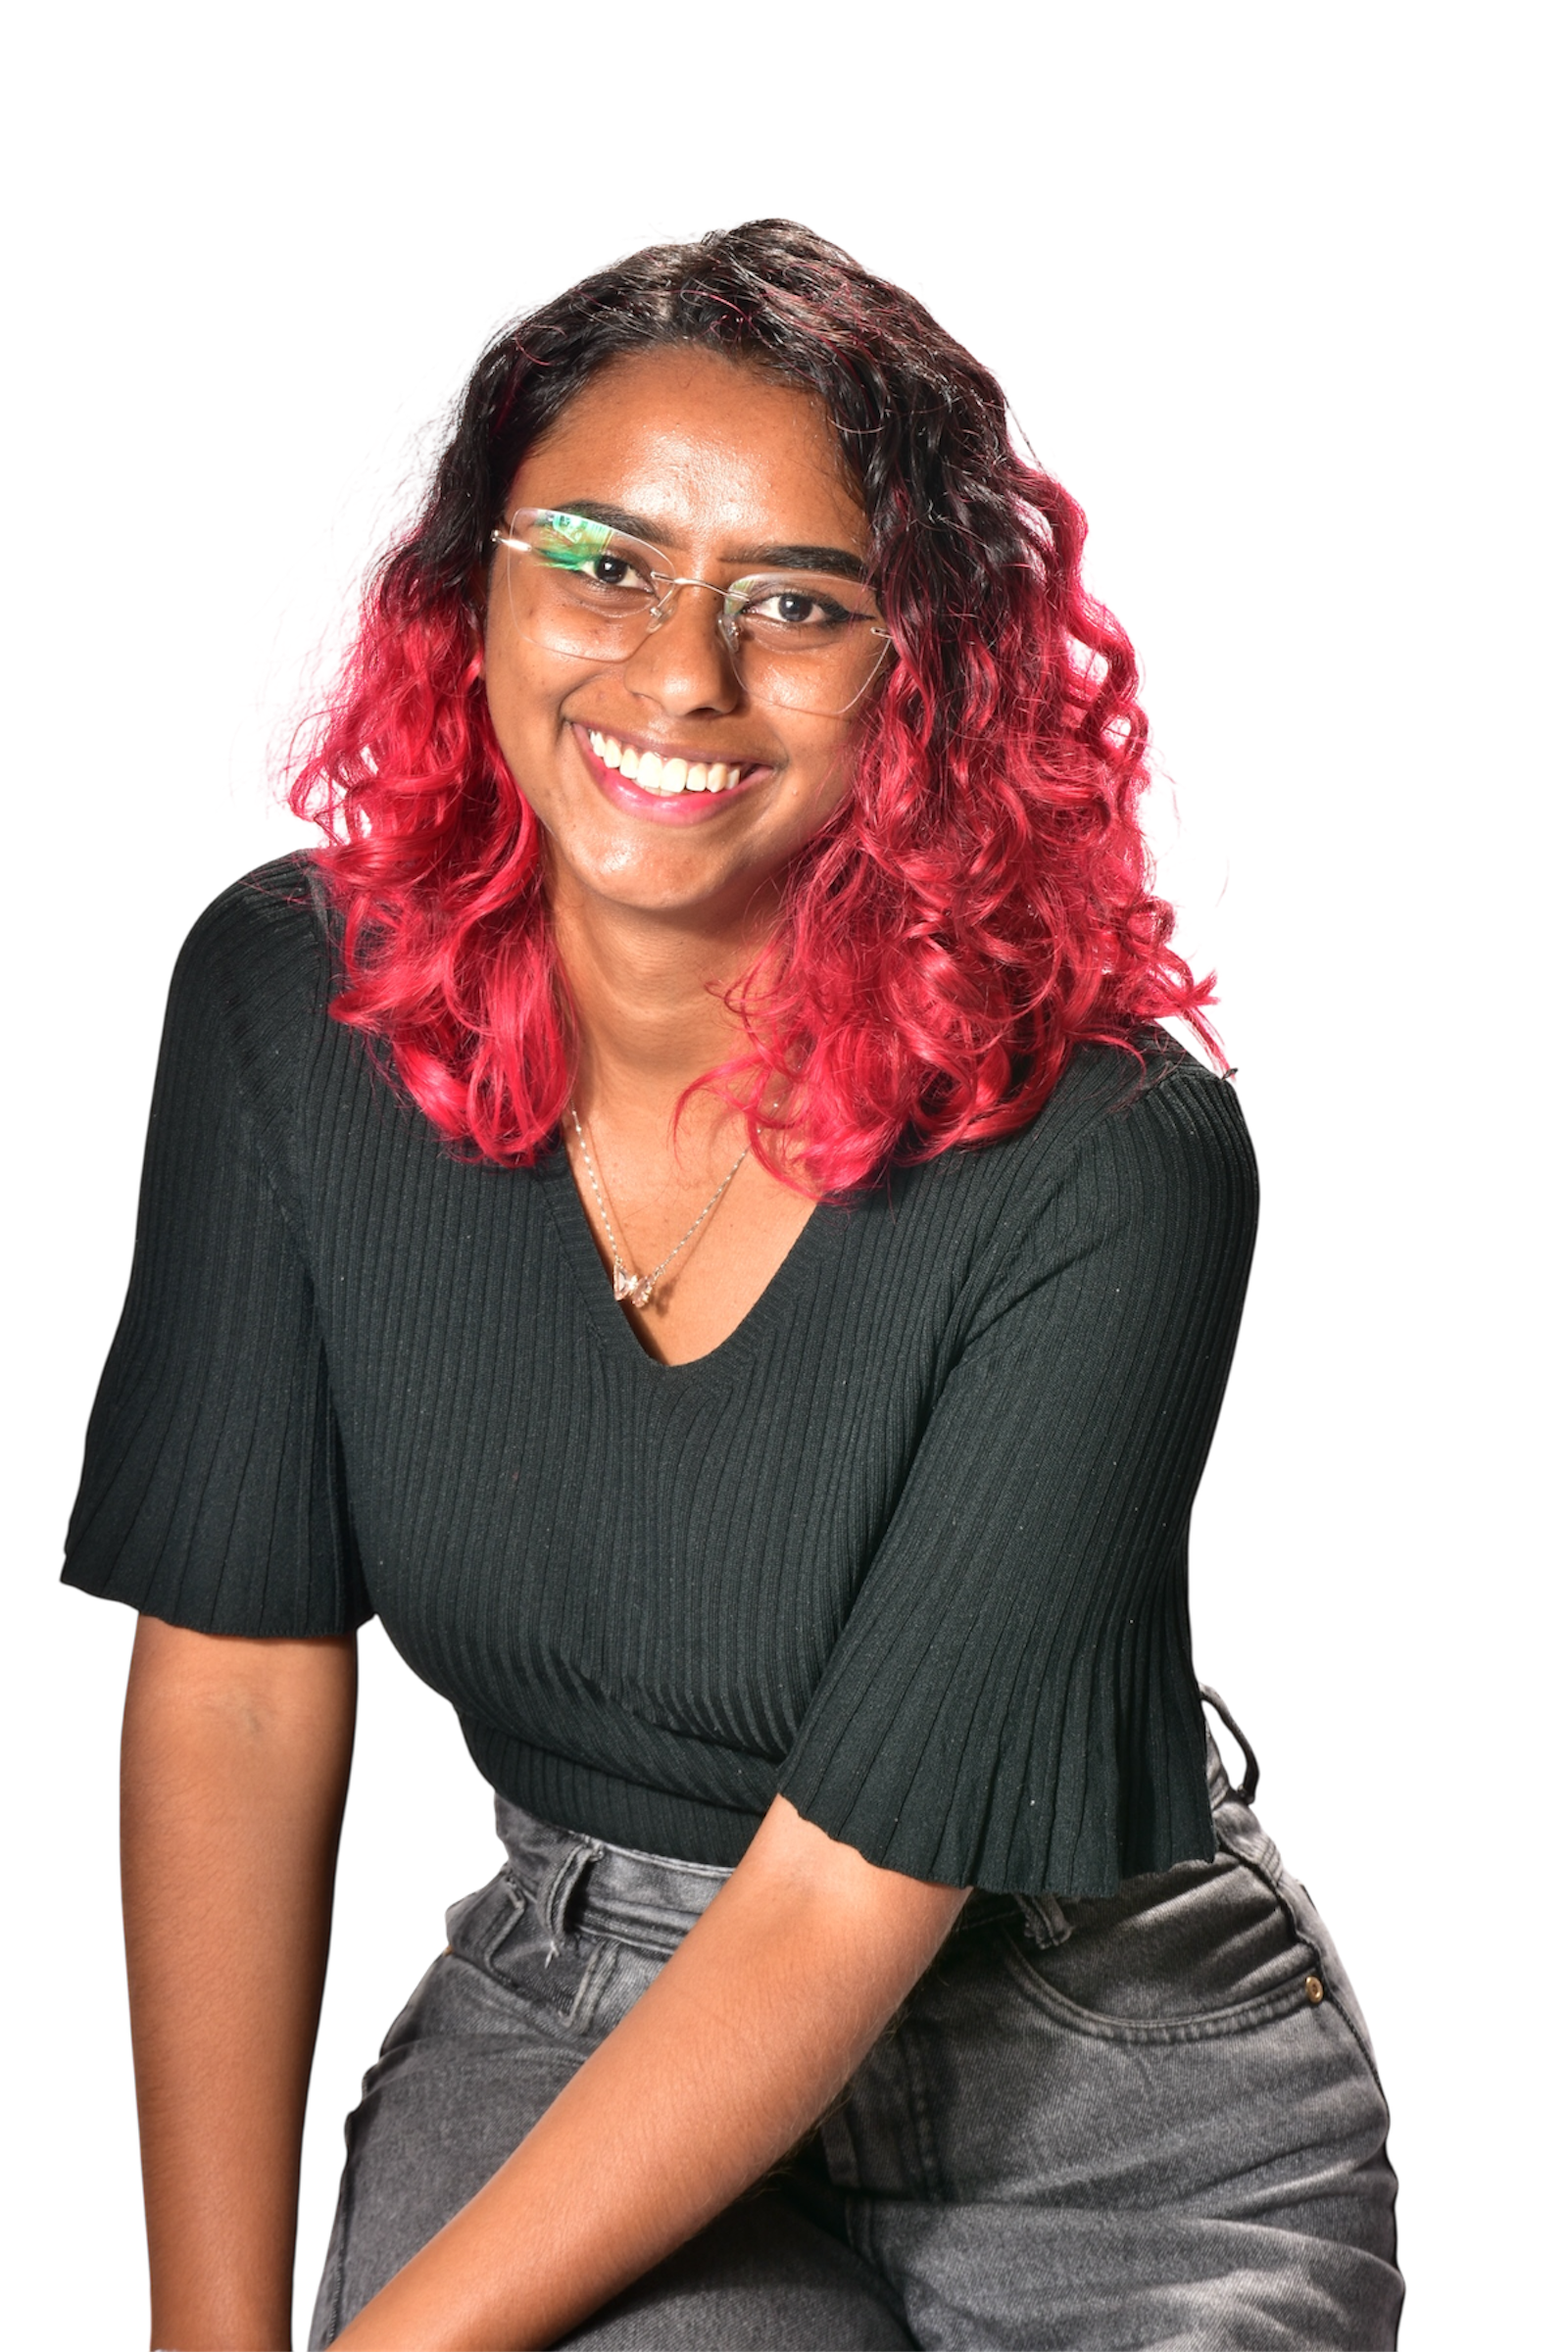
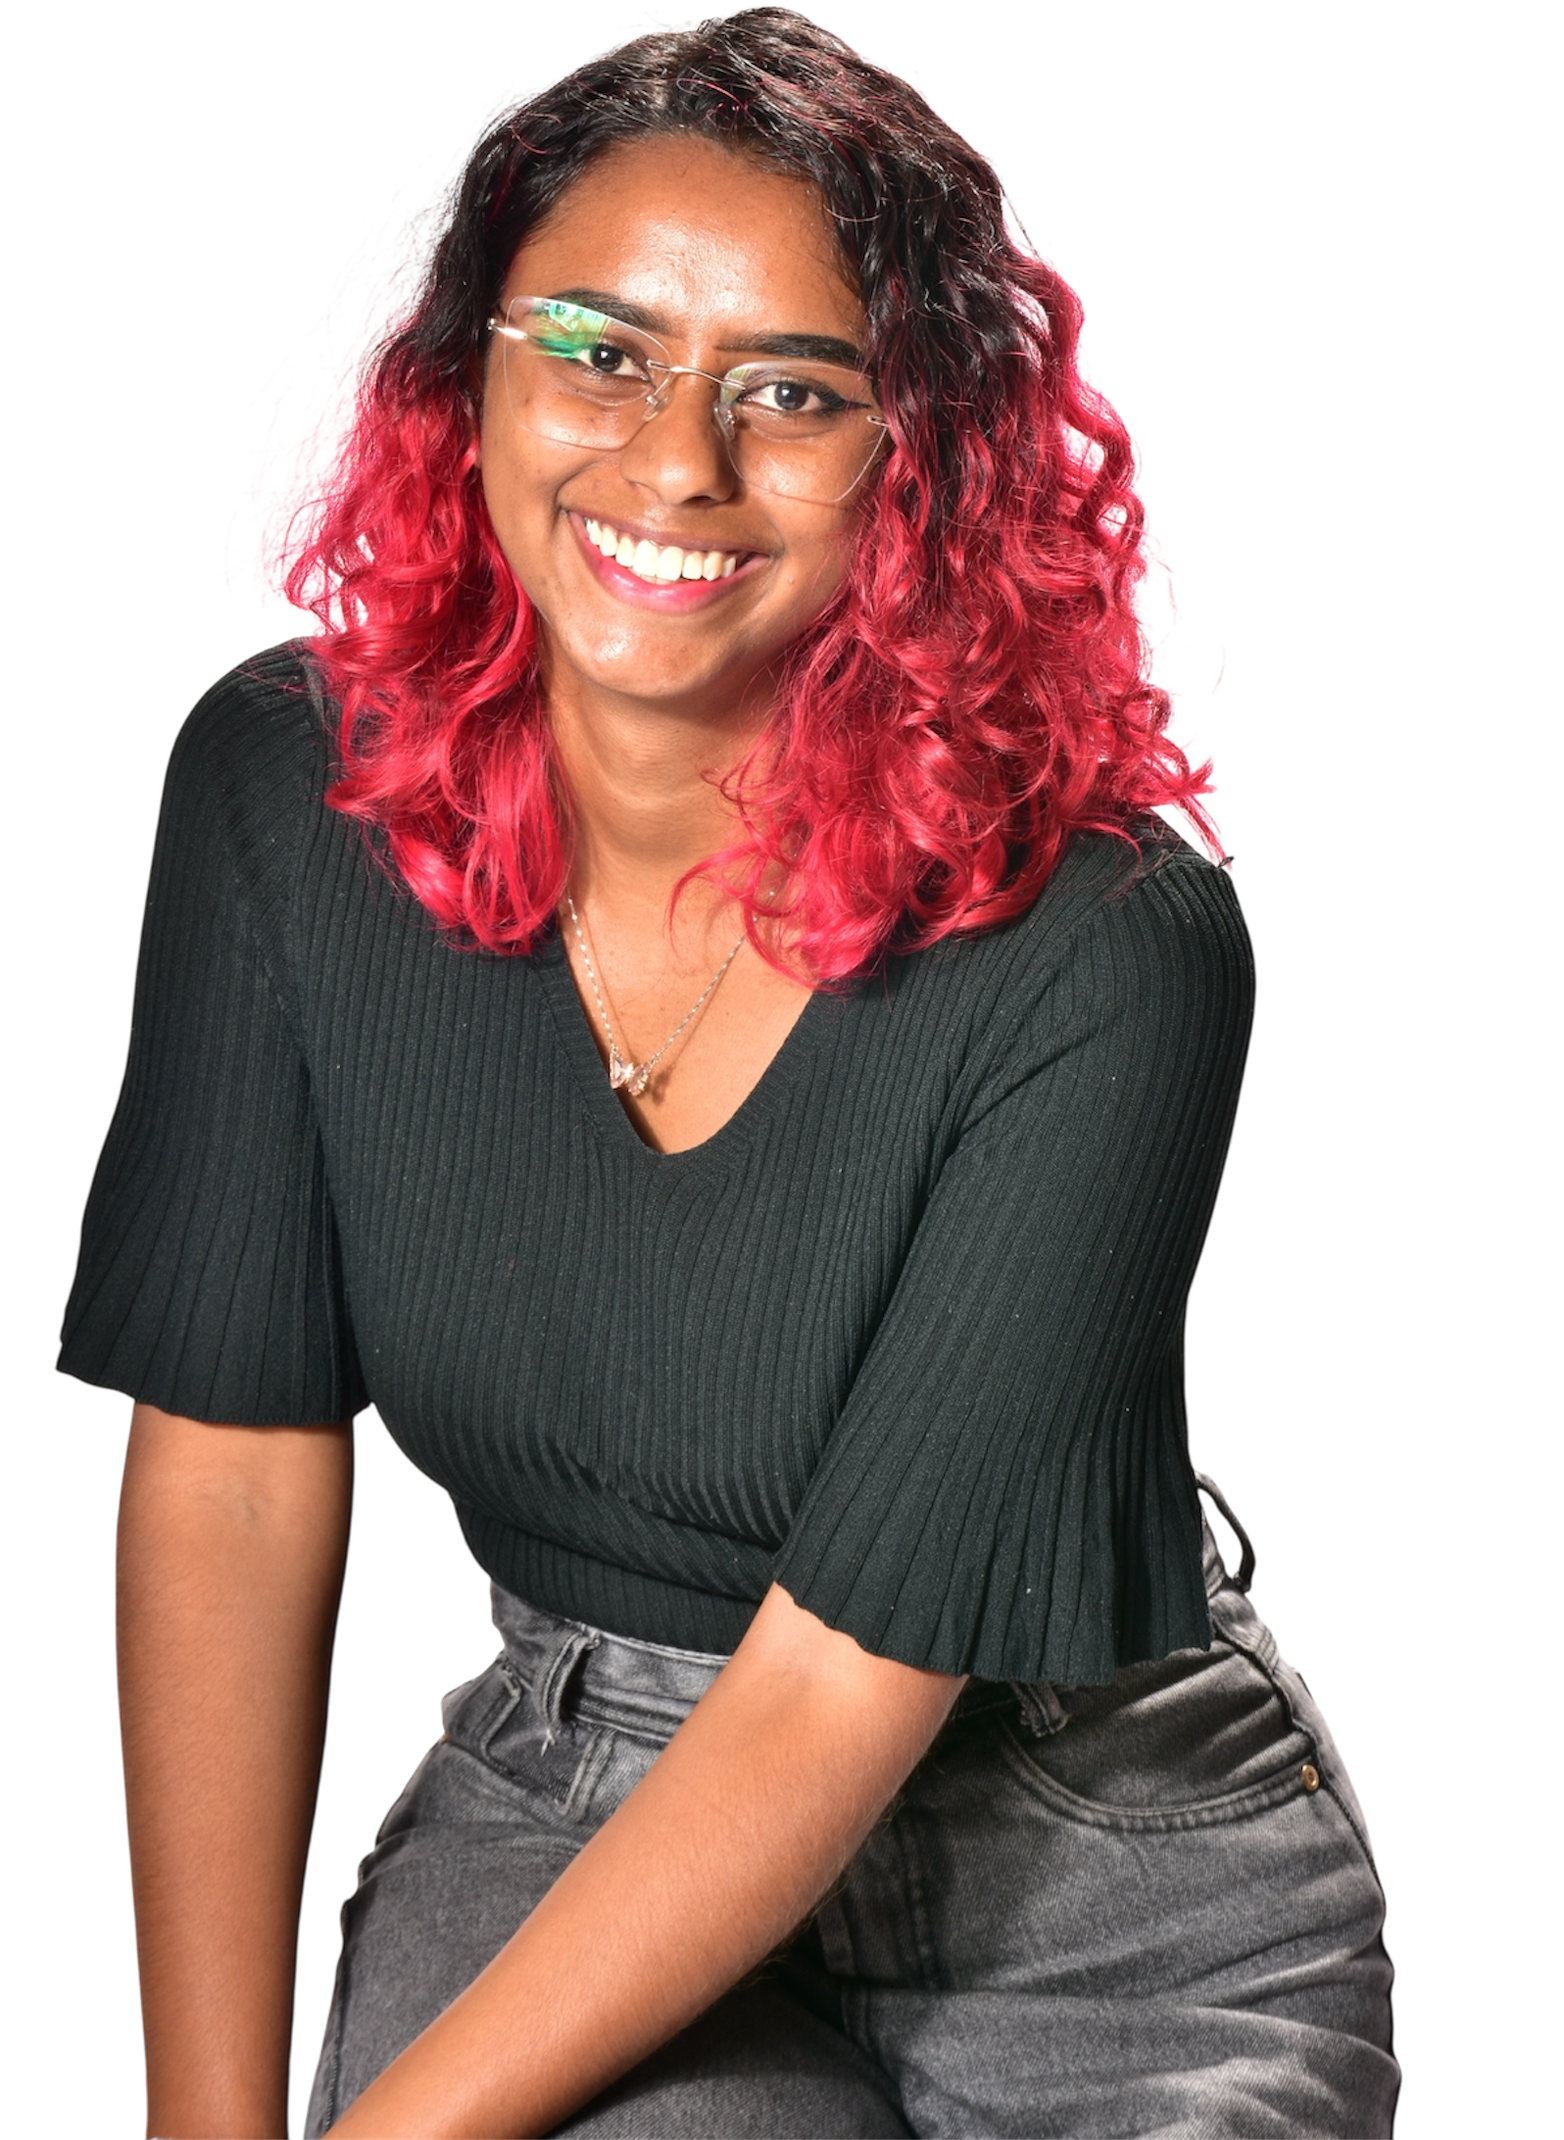
Responsividade e fix de alguns bugs

diff --git a/soph-moraes/src/components/layout/hero/header.tsx b/soph-moraes/src/components/layout/hero/header.tsx
@@ -1,36 +1,31 @@
 import Button from "@/components/common/button";
+import Image from "next/image";
 import Link from "next/link";
 
 const Header = () => {
   return (
-    <section className="px-20 py-4 bg-crimsonWine">
-      <div className=" flex justify-between">
+    <header className="sticky top-0 z-50 bg-crimsonWine shadow-md">
+      <div className="container mx-auto flex items-center justify-between px-4 py-3 md:px-6 md:py-4">
         {/* Logo */}
-        <div className="w-8 h-8 bg-amberOrange"></div>
+        <Link href="/" className="flex items-center space-x-3 md:space-x-4">
+          <Image
+            src="/sophia-moraes-logomarca.svg"
+            width={80}
+            height={80}
+            alt="logomarca"
+            className="w-20 h-20 md:w-24 md:h-24"
+          />
+        </Link>
 
-        <nav className="flex gap-8 text-2xl text-white">
-          <Link href={"/"} className="hover:text-amberOrange   duration-300">
-            Sobre
-          </Link>
-          <Link href={"/"} className="hover:text-amberOrange   duration-300">
-            Serviços
-          </Link>
-          <Link href={"/"} className="hover:text-amberOrange   duration-300">
-            Blog
-          </Link>
-          <Link href={"/"} className="hover:text-amberOrange   duration-300">
-            Projetos
-          </Link>
-          <Link href={"/"} className="hover:text-amberOrange   duration-300">
-            Contato
-          </Link>
-        </nav>
-
-        <Button variant="solidAmberOrange" className="w-fit">
+        {/* Call to action */}
+        <Button
+          variant="solidAmberOrange"
+          className="px-4 py-2 text-sm sm:text-base md:px-6 md:py-2 md:text-lg"
+        >
           Fale Comigo
         </Button>
       </div>
-    </section>
+    </header>
   );
 };
 

diff --git a/soph-moraes/src/components/layout/hero/HeroContainer.tsx b/soph-moraes/src/components/layout/hero/HeroContainer.tsx
@@ -4,12 +4,12 @@ import { motion } from "framer-motion";
 
 const HeroContainer = () => {
   return (
-    <div className="relative w-full md:w-1/3 min-h-[calc(100vh-100px)]">
-      {/* Estrela no fundo */}
+    <div className="relative w-full h-full flex justify-center items-end">
+      {/* Spinning starburst decoration */}
       <motion.div
-        className="absolute top-1/2 left-1/2 -translate-x-1/2 -translate-y-72 w-[600px] h-[600px] z-0"
-        animate={{ rotate: 45 }}
-        transition={{ duration: 8, repeat: Infinity, ease: "linear" }}
+        className="absolute top-0 left-1/2 sm:top-0 md:top-8 lg:top-16 xl:top-4 2xl:top-28 min-w-[320px] sm:min-w-[400px] md:min-w-[400px] lg:min-w-[420px] xl:min-w-[600px] 2xl:min-w-[520px] aspect-square -translate-x-1/2"
+        animate={{ rotate: 360 }}
+        transition={{ duration: 12, repeat: Infinity, ease: "linear" }}
       >
         <Image
           src="/Star/starburst.svg"
@@ -20,14 +20,16 @@ const HeroContainer = () => {
         />
       </motion.div>
 
-      {/* Imagem da Sophia */}
-      <Image
-        src="/soph.png"
-        alt="Hero Image"
-        fill
-        unoptimized
-        className="absolute object-contain object-bottom z-10"
-      />
+      {/* Hero portrait */}
+      <div className="relative z-10 min-w-[240px] sm:min-w-[320px] md:min-w-[400px] lg:min-w-[420px] xl:min-w-[400px] 2xl:min-w-[520px] aspect-[2/3]">
+        <Image
+          src="/soph.png"
+          alt="Sophia Moraes"
+          fill
+          unoptimized
+          className="object-contain object-bottom"
+        />
+      </div>
     </div>
   );
 };

diff --git a/soph-moraes/src/components/layout/hero/heroSection.tsx b/soph-moraes/src/components/layout/hero/heroSection.tsx
@@ -4,9 +4,11 @@ import HeroContainer from "./HeroContainer";
 import Image from "next/image";
 import { Instagram, Linkedin } from "lucide-react";
 
+// TODO: BOTÕES ESTÂO FICANDO COM DUAS LINHAS NO 796px de largura
+
 const HeroSection = () => {
   return (
-    <section className="relative overflow-x-clip mt-8 px-4 md:px-20 flex flex-col md:flex-row items-center md:items-start gap-8">
+    <section className="relative overflow-x-clip mt-8 px-4 md:px-20 flex flex-col md:flex-row items-center md:items-start min-h-[calc(100vh-130px)] gap-8">
       <div className="w-full my-auto  md:w-2/3 pr-0 md:pr-10">
         <h1 className="text-6xl font-bold  text-amberOrange mb-4">
           <span className="">Sophia </span>
@@ -50,7 +52,9 @@ const HeroSection = () => {
         </div>
       </div>
 
-      <HeroContainer />
+      <div className="relative w-full md:w-1/3 mt-auto flex justify-center items-end h-full overflow-visible">
+        <HeroContainer />
+      </div>
 
       {/* Decorations */}
 
@@ -58,7 +62,7 @@ const HeroSection = () => {
         ↓
       </div>
 
-      <div className="absolute bottom-0 left-0 w-full overflow-hidden pointer-events-none select-none z-[10]">
+      <div className="absolute -bottom-1 left-0 w-full overflow-hidden pointer-events-none select-none z-[10]">
         <Image
           src="/images/Wave/split-wave.svg"
           alt=""
